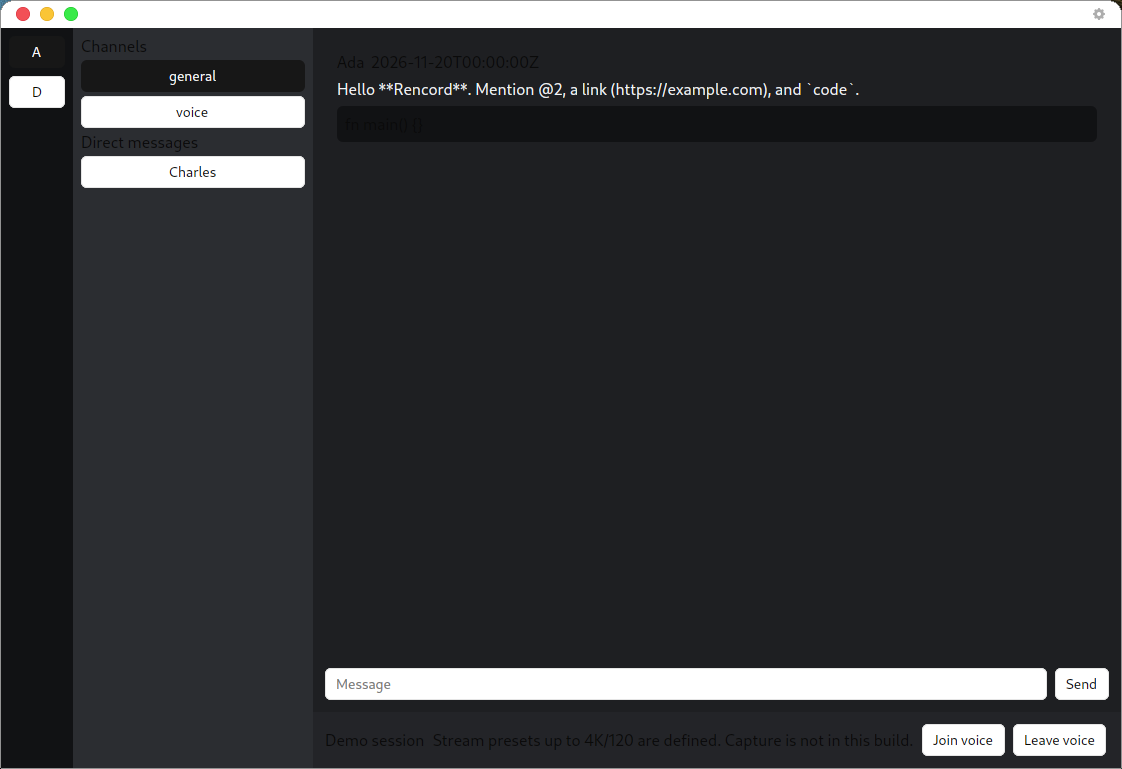
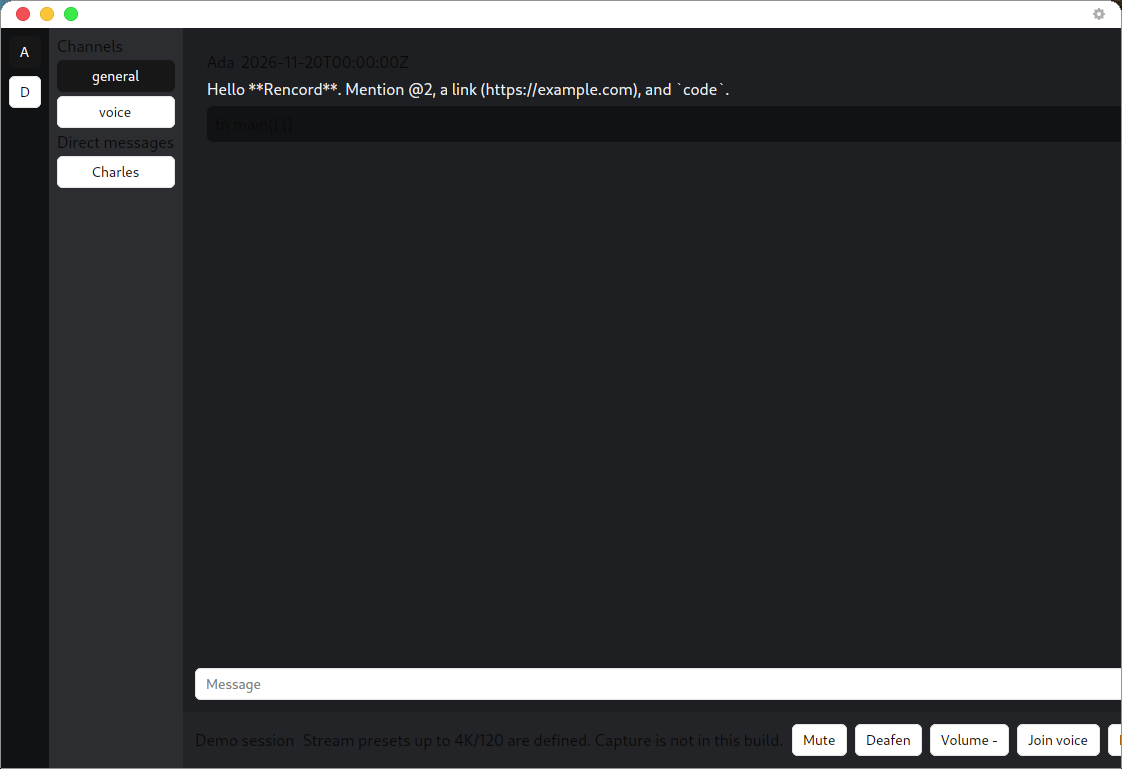
Document Milestone 2 voice status in the README.
Refresh the feature table, roadmap, voice section, and FAQ so main matches the local voice handshake, gateway resume, and mute controls, and recapture the demo window.

diff --git a/README.md b/README.md
@@ -44,15 +44,15 @@ Several native Rust clients already exist. Rencord is aimed at the gaps that sho
 | **Streaming** | Quality presets up to 2160p120 are defined and are not hidden behind a Nitro check. The UI must not promise that Discord will accept them. | No capture, no encoder, no Go Live socket. An out-of-process worker is a typed protocol only. |
 | **HDR** | Policy code tone-maps HDR to SDR unless both peers are Rencord and an SFU passthrough test has succeeded. That test has not been run. | No HDR capture. |
 
-Serein, Concord, and Yapfast are further along as daily drivers. Rencord's Milestone 1 is the shell, the text path, and a voice engine whose jitter buffer is the part worth keeping.
+Serein, Concord, and Yapfast are further along as daily drivers. Milestone 1 is the shell and the text path. Milestone 2 adds a voice websocket and UDP session, tested against a local stub, with mute, deafen, and gain. Neither milestone has been signed into a real Discord voice server.
 
 ## Screenshots
 
-Captured from `rencord --demo` on Linux (X11, software GL). These are the real window, not mockups. Markdown is still drawn as text, and **Join voice** runs the in-memory loopback rather than a Discord UDP session.
+Captured from `rencord --demo` on Linux (X11, software GL) after Milestone 2. These are the real window, not mockups. Markdown is still drawn as text. **Join voice** runs the in-memory loopback and then tries to open the default cpal devices. It does not open a Discord UDP session.
 
 | Guild, channels, DMs, and the timeline | After Join voice (loopback stats) |
 | :---: | :---: |
-| <img src="docs/screenshots/shell.png" alt="Rencord demo: guild rail, general and voice channels, Charles DM, message timeline, composer" width="480" /> | <img src="docs/screenshots/voice.png" alt="Rencord demo after Join voice, status line showing loopback played, concealed, hard gaps, and target delay" width="480" /> |
+| <img src="docs/screenshots/shell.png" alt="Rencord demo: guild rail, channels, composer, and Mute, Deafen, Volume, Join voice" width="480" /> | <img src="docs/screenshots/voice.png" alt="Rencord demo after Join voice, status line showing loopback played, concealed, hard gaps, and target delay" width="480" /> |
 
 ## Feature status
 
@@ -66,8 +66,8 @@ Honest status for this repository. "Implemented" means the code path and tests e
 | Message history | Implemented | Bounded to 200 messages per channel in memory, with a SQLite copy. |
 | Markdown | Implemented | Headings, quotes, fenced code, bold, italic, inline code, links, mentions, spoilers. Rendered as GPUI text. |
 | Sending messages | Implemented locally; REST client tested against a mock | `POST /channels/{id}/messages` exists. The demo composer appends locally. A live send was not verified. |
-| Gateway live updates | Implemented against a local socket | Identify, heartbeat, `READY`, `MESSAGE_CREATE`, and resume after the socket drops. Not verified against Discord's gateway. |
-| Voice join, audio in and out | Partial | Local voice websocket + UDP stub covers IP discovery, select protocol, `aead_xchacha20_poly1305_rtpsize`, speaking, a DAVE prepare/ready exchange, resume, mute, deafen, and per-SSRC gain through the jitter buffer. cpal can open the default devices when they exist. The **Join voice** button still runs the in-memory loopback and then tries to open cpal. A live Discord voice server was not used. |
+| Gateway live updates | Implemented against a local socket | Identify, heartbeat, `READY`, `MESSAGE_CREATE`. After the socket drops, the client reconnects and sends Resume with the saved session id and sequence. Not verified against Discord's gateway. |
+| Voice join, audio in and out | Partial | `LiveCall` speaks the voice gateway and UDP against a local stub: identify or resume, IP discovery, select protocol, `aead_xchacha20_poly1305_rtpsize`, speaking, and a DAVE prepare / transition-ready exchange. Encrypted Opus is echoed through the adaptive jitter buffer. Mute, deafen, and per-SSRC gain are in that path. The desktop **Join voice** button still runs the loopback, then opens the default cpal input and output when the machine has them. There is no device picker yet. A live Discord voice server was not used. |
 | DAVE (E2EE) | Implemented | `davey` 0.2. Two-member MLS encrypt/decrypt test. Opcode routing keeps the transport up when a welcome fails. |
 | Adaptive jitter buffer | Implemented | See [Voice](#voice). |
 | Screen share / camera / Go Live | Not implemented | Presets and the worker command enum only. |
@@ -132,6 +132,17 @@ Discord voice is 48 kHz Opus, usually 20 ms frames. A fixed two-frame buffer has
 
 `crates/rencord-voice` compares that buffer with `FixedWindow`, a baseline of the fixed 40 ms behavior, under a deterministic loss and delay trace. The adaptive buffer records fewer hard gaps at 1.5% and at 5% loss. That comparison is a simulation, not a recording of a Discord call.
 
+Milestone 2 drives a real websocket and UDP socket, but the peer is a process on localhost:
+
+- Hello, then Identify, or Resume (`op` 7) with `server_id`, `session_id`, `token`, and `seq_ack` after the socket is replaced
+- Ready supplies the UDP address and SSRC; the client sends the 74-byte IP discovery packet and puts the answered address into Select Protocol
+- Session Description installs the 32-byte `aead_xchacha20_poly1305_rtpsize` key; Speaking follows
+- A DAVE prepare transition is answered with transition-ready. The MLS group itself is covered by the davey round-trip test, not by the stub
+- Microphone frames are Opus-encoded, sealed, and written to UDP. Received packets are unsealed, jitter-buffered, then scaled by per-SSRC gain. Mute suppresses the packet. Deafen zeros playback
+- The main gateway uses the same idea: on a clean close it reconnects and sends gateway Resume (`op` 6) when it still has a session id
+
+None of that has been checked against `gateway.discord.gg` or a Discord voice server. The desktop button does not call `LiveCall` yet. It prints loopback stats and, when cpal can see devices, monitors the default microphone through the same jitter buffer.
+
 DAVE v1 sits on top of the transport cipher. Media is encrypted with `davey` before `aead_xchacha20_poly1305_rtpsize`. Silence packets are left to davey's own passthrough rules. If an MLS welcome fails, the session reports it and leaves the UDP key in place.
 
 ## Architecture
@@ -170,11 +181,17 @@ The UI does not embed egui. Protocol crates do not depend on GPUI.
 
 ## Roadmap
 
-1. **Threads, search, uploads, notifications.** Click-to-focus toasts and the OS keyring behind the existing `SecretStore` trait.
-2. **Live voice on Linux, macOS, and Windows.** Finish UDP discovery against a real voice server, cpal capture and playback on the same session, and DAVE rekey without dropping the call.
-3. **Go Live that stays up.** Per-OS capture (Windows Graphics Capture, ScreenCaptureKit, PipeWire portal), H.264 encode with a software fallback, and an out-of-process stream worker so a capture failure does not kill the call. Quality controls go up to 2160p and 120 fps with no Nitro checkbox. The UI will show Discord's documented caps (720p30 without Nitro, 4K60 with Nitro) and require an explicit acknowledgement before requesting more. Viewers on the official client may be transcoded or rejected. 120 fps is only offered when the local display reports that refresh.
-4. **HDR between Rencord users.** Capture HDR where the OS allows it, tone-map to BT.709 8-bit for everyone else, and try a 10-bit path only after a measured SFU test. Mixed audiences stay SDR.
-5. **Polish.** Multi-account, IME, accessibility, themes. Plugins only after chat and media are boring.
+| Milestone | State | What landed |
+| --- | --- | --- |
+| 1. Shell and adaptive jitter | On `main` | GPUI window, token login, guild and DM lists, markdown history, local send, gateway identify against a local socket, jitter simulation. |
+| 2. Live voice path | On `main` | Gateway resume, voice websocket + UDP discovery, transport cipher, speaking, DAVE control frames, mute, deafen, per-SSRC gain, default cpal devices. Local stubs only. |
+| 3. UI | Next | Themes, virtualized timeline, command palette, keyboard navigation, settings, device picker. |
+| 4. Threads, search, uploads, notifications | Not started | OS keyring behind the existing `SecretStore` trait. |
+| 5. Voice against Discord | Not started | Point `LiveCall` at a real voice server and keep DAVE rekeys without dropping the call. |
+| 6. Go Live | Not started | Per-OS capture, H.264, out-of-process worker, presets up to 2160p120 with no Nitro checkbox. The UI will show Discord's documented caps and require an explicit acknowledgement before requesting more. 120 fps only when the display reports that refresh. |
+| 7. HDR between Rencord users | Not started | Tone-map to BT.709 8-bit unless both peers are Rencord and an SFU passthrough test has succeeded. |
+
+Go Live and HDR stay policy-only until those milestones. The UI must not promise that Discord will accept a preset.
 
 ## FAQ
 
@@ -182,7 +199,7 @@ The UI does not embed egui. Protocol crates do not depend on GPUI.
 From your own client, on an account you control. Rencord will not read another app's storage for you. Official login is the plan described above; it is not built.
 
 **Does Join voice put me in a Discord channel?**  
-In this milestone the button runs the in-process loopback so you can see jitter stats without a call. The voice state machine and DAVE session are in `rencord-voice` and covered by tests. Wiring them to a live voice server is the next voice task.
+No. The button runs the in-process loopback and then tries to open the default microphone and speaker. `LiveCall` can complete discovery, select protocol, transport encryption, speaking, and a voice-gateway resume, but only against the local stub in tests. It has not been pointed at a Discord voice server.
 
 **Will 4K / 120 work without Nitro?**  
 The preset list is not gated. Discord's service is. Treat higher settings as a request, not a grant.
